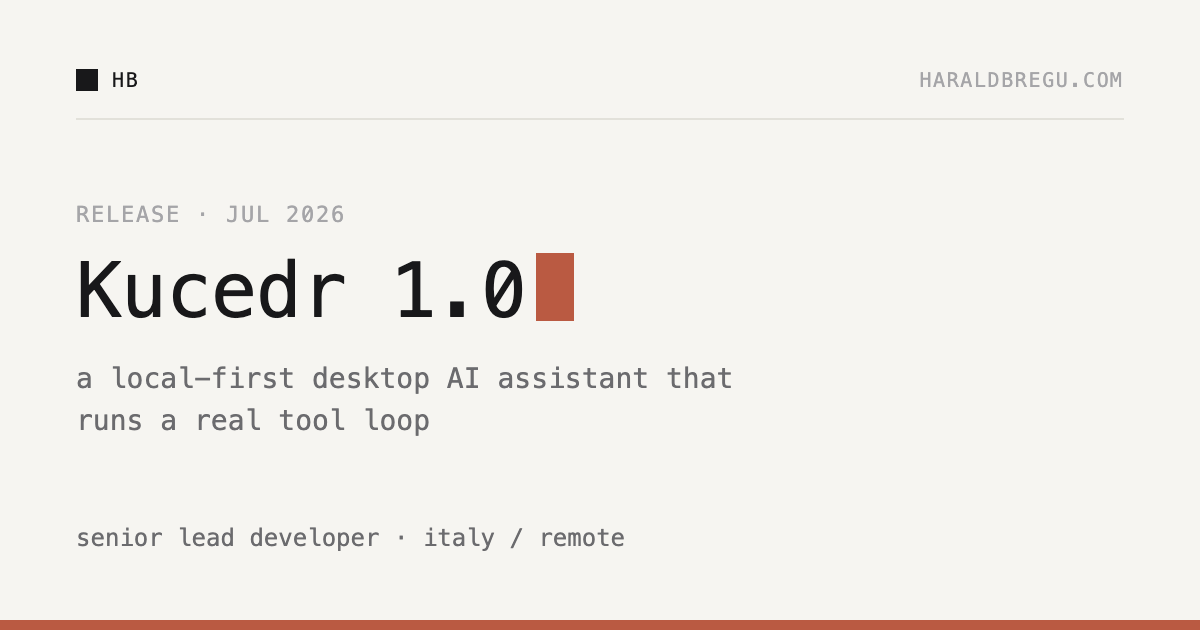
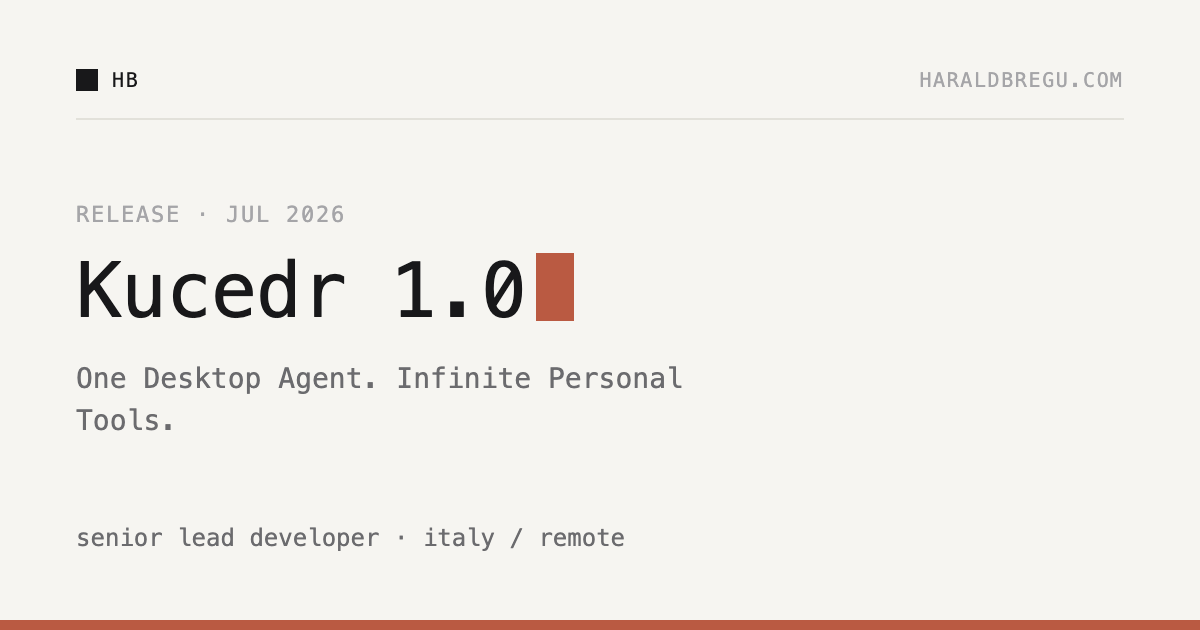
Refine Kucedr product messaging

Changed region(s): [[0.0617, 0.573, 0.6167, 0.6937]]

diff --git a/src/data/posts.ts b/src/data/posts.ts
@@ -5,11 +5,11 @@ export const posts = [
     when: "2026",
     date: "Jul 27, 2026",
     isoDate: "2026-07-27",
-    title: "Kucedr 1.0: a local-first desktop AI assistant",
+    title: "Kucedr 1.0: One Desktop Agent. Infinite Personal Tools.",
     read: "4 min read",
     aside: "release",
     excerpt:
-      "Kucedr is out in public beta: a desktop AI assistant that runs a real tool loop on your machine, keeps your keys and history local, and asks before it acts.",
+      "Kucedr is one desktop agent with infinite personal tools: it turns plain language into real work on your machine while keeping your keys, history, and decisions under your control.",
     tags: ["AI", "Desktop", "Electron", "MCP", "Product Launch"],
   },
   {
